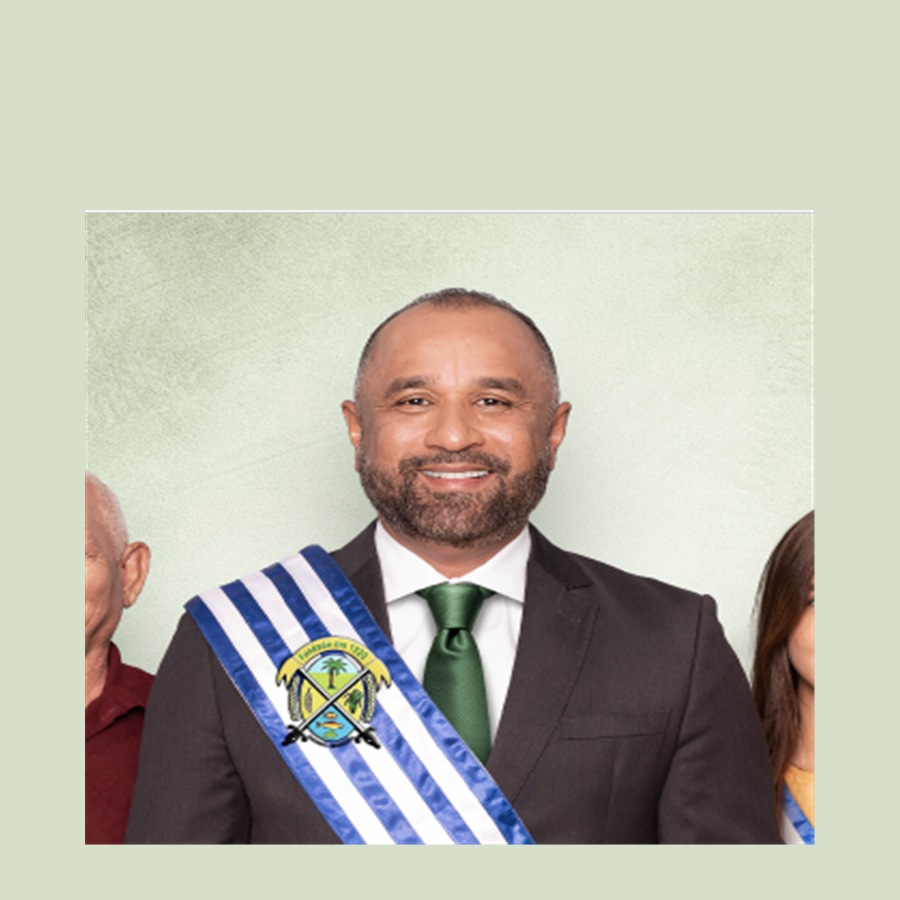
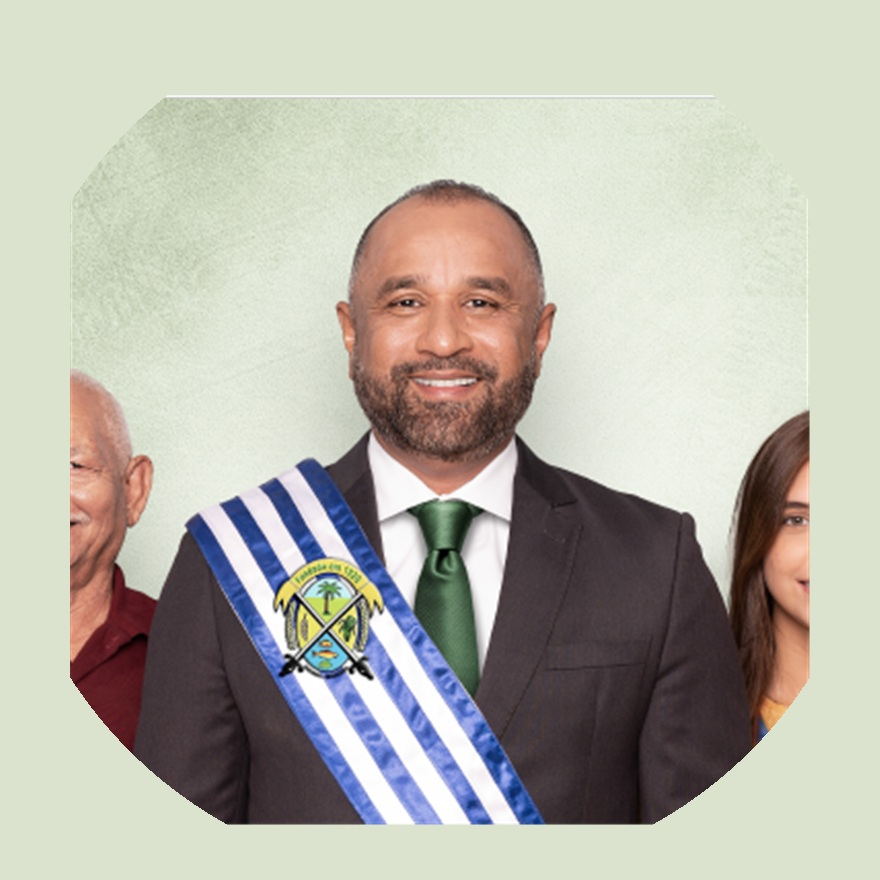
Fix mayor photo: circular PNG portrait, remove broken scale hack.

diff --git a/public/index.html b/public/index.html
@@ -99,7 +99,7 @@
     html.brand-ready body.landing { visibility: visible; }
   </style>
   <link rel="stylesheet" href="/styles.css" />
-  <link rel="stylesheet" href="/home.css?v=7" />
+  <link rel="stylesheet" href="/home.css?v=8" />
   <link rel="stylesheet" href="https://unpkg.com/leaflet@1.9.4/dist/leaflet.css" />
   <link rel="icon" href="/assets/logo-prefeitura.png" />
   <script>
@@ -430,7 +430,7 @@
   <section class="prefeita-spotlight prefeito-spotlight" id="prefeitoSpotlight">
     <div class="prefeita-spotlight-inner">
       <div class="prefeita-photo">
-        <img id="prefeitoFoto" src="/assets/foto-prefeito-bacabal.jpg?v=6" alt="Prefeito Roberto Costa" width="220" height="220" decoding="async" />
+        <img id="prefeitoFoto" src="/assets/foto-prefeito-bacabal.png?v=7" alt="Prefeito Roberto Costa" width="220" height="220" decoding="async" />
       </div>
       <div class="prefeita-copy">
         <p class="eyebrow" id="prefeitoEyebrow">Gabinete do Prefeito</p>

diff --git a/public/home.css b/public/home.css
@@ -1006,14 +1006,13 @@ body:not([data-cidade]) .footer-social a {
 }
 
 .prefeito-spotlight .prefeita-photo {
-  background: #d6dfca;
+  background: transparent;
 }
 
 .prefeito-spotlight .prefeita-photo img {
   object-fit: cover;
-  object-position: center 42%;
-  transform: scale(0.86);
-  transform-origin: center 28%;
+  object-position: center center;
+  transform: none;
 }
 
 .prefeita-spotlight-inner {
